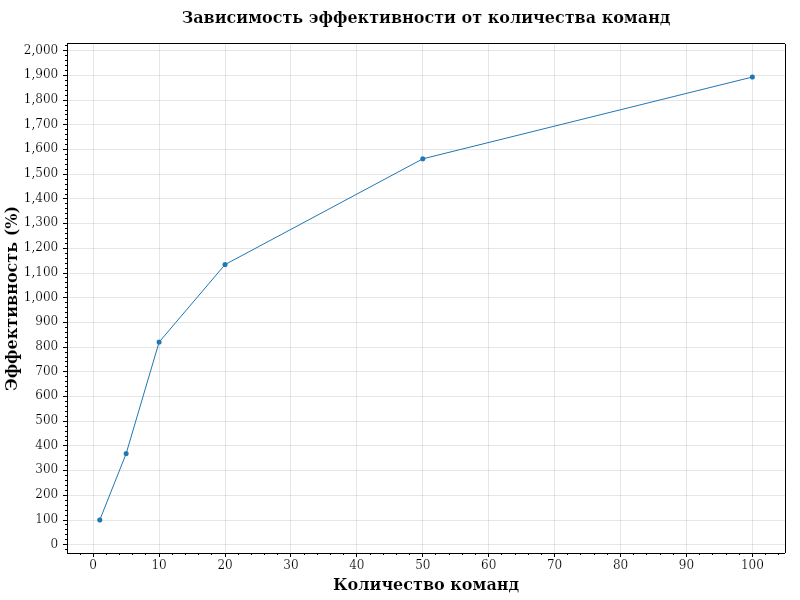
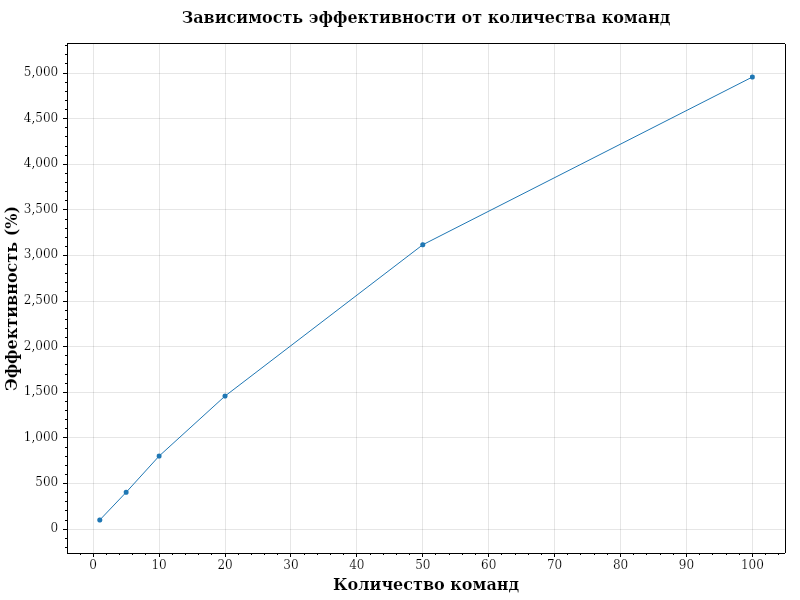
refactor(task18): fixing the Round Robin strategy

diff --git a/task17tests/ServerThreadTests.cs b/task17tests/ServerThreadTests.cs
@@ -6,6 +6,7 @@ namespace task17tests
     public class TestCommand: ICommand
     {
         public bool Executed = false;
+        public bool IsComplete => true;
         public void Execute()
         {
             Executed = true;
@@ -13,33 +14,25 @@ namespace task17tests
     }
     public class FailCommand : ICommand
     {
+
+        public bool IsComplete => true;
         public void Execute()
         {
             throw new Exception("Команда сломана!");
         }
     }
-    public class LongCommand: ICommand
+    public class LongCommand : ICommand
     {
-        private readonly ServerThread Server;
         private readonly int Steps;
         public int Step = 0;
-        public bool Finished = false;
-        public LongCommand(ServerThread server, int steps)
+        public LongCommand(int steps)
         {
-            Server = server;
             Steps = steps;
         }
+        public bool IsComplete => Step >= Steps;
         public void Execute()
         {
             Step++;
-            if (Step >= Steps)
-            {
-                Finished = true;
-            }
-            else
-            {
-                Server.QueueCommand(this);
-            }
         }
     }
     public class ServerThreadTests
@@ -117,59 +110,26 @@ namespace task17tests
         public void LongCommand_CompletesAllSteps()
         {
             var server = new ServerThread();
-            var command = new LongCommand(server, 10);
+            var command = new LongCommand(10);
             server.QueueCommand(command);
             server.QueueCommand(new SoftStopCommand(server));
             server.Start();
             server.Thread.Join(5000);
-            Assert.True(command.Finished);
+            Assert.True(command.IsComplete);
             Assert.Equal(10, command.Step);
-        }
-
-        [Fact]
-        public void TwoLongCommands_Completes()
-        {
-            var server = new ServerThread();
-            var FirstCommand = new LongCommand(server, 5);
-            var SecondCommand = new LongCommand(server, 5);
-            server.QueueCommand(FirstCommand);
-            server.QueueCommand(SecondCommand);
-            server.QueueCommand(new SoftStopCommand(server));
-            server.Start();
-            server.Thread.Join(5000);
-            Assert.True(FirstCommand.Finished);
-            Assert.True(SecondCommand.Finished);
-            Assert.Equal(5, FirstCommand.Step);
-            Assert.Equal(5, SecondCommand.Step);
         }
 
         [Fact]
         public void HardStop_InterruptsLongCommand()
         {
             var server = new ServerThread();
-            var Command = new LongCommand(server, 10);
+            var Command = new LongCommand(10);
             server.QueueCommand(Command);
             server.QueueCommand(new HardStopCommand(server));
             server.Start();
             server.Thread.Join(5000);
-            Assert.False(Command.Finished);
+            Assert.False(Command.IsComplete);
             Assert.True(Command.Step < 10);
-        }
-
-        [Fact]
-        public void CommandsWithLongCommands_Completes()
-        {
-            var server = new ServerThread();
-            var Command = new TestCommand();
-            var longCommand = new LongCommand(server, 5);
-            server.QueueCommand(Command);
-            server.QueueCommand(longCommand);
-            server.QueueCommand(new SoftStopCommand(server));
-            server.Start();
-            server.Thread.Join(5000);
-            Assert.True(Command.Executed);
-            Assert.True(longCommand.Finished);
-            Assert.Equal(5, longCommand.Step);  
         }
 
         [Fact]
@@ -188,7 +148,7 @@ namespace task17tests
                     var server = new ServerThread();
                     for (int j = 0; j < CommandCounts[i]; j++)
                     {
-                        var command = new LongCommand(server, Steps);
+                        var command = new LongCommand(Steps);
                         server.QueueCommand(command);
                     }
                     server.QueueCommand(new SoftStopCommand(server));

diff --git a/task17/Scheduler.cs b/task17/Scheduler.cs
@@ -27,12 +27,20 @@ namespace task17
                 index = 0;
             }
             var command = commands[index];
-            commands.RemoveAt(index);
-            if (commands.Count > 0 && index >= commands.Count)
-            {
-                index = 0;
-            }
+            index++;
             return command;
+        }
+        public void Remove(ICommand cmd)
+        {
+           int position = commands.IndexOf(cmd);
+            if (position >= 0)
+            {
+                commands.RemoveAt(position);
+                if (position < index)
+                {
+                    index--;
+                }
+            } 
         }
     }
 }

diff --git a/task17/ServerThread.cs b/task17/ServerThread.cs
@@ -58,6 +58,10 @@ namespace task17
                             ExceptionHandler(command, exception);
                         }
                     }
+                    if (command.IsComplete)
+                    {
+                        scheduler.Remove(command);
+                    }
                 }
                 else
                 {

diff --git a/task17/HardStopCommand.cs b/task17/HardStopCommand.cs
@@ -7,6 +7,7 @@ namespace task17
         {
             _server = server;
         }
+        public bool IsComplete => true;
         public void Execute()
         {
             if (Thread.CurrentThread != _server.Thread)

diff --git a/task17/SoftStopCommand.cs b/task17/SoftStopCommand.cs
@@ -7,6 +7,7 @@ namespace task17
         {
             _server = server;
         }
+        public bool IsComplete => true;
         public void Execute()
         {
             if (Thread.CurrentThread != _server.Thread)

diff --git a/task17/IScheduler.cs b/task17/IScheduler.cs
@@ -5,6 +5,7 @@ namespace task17
         bool HasCommand();
         ICommand Select();
         void Add(ICommand cmd);
+        void Remove(ICommand cmd);
     }
 }
 

diff --git a/task17/ICommand.cs b/task17/ICommand.cs
@@ -3,6 +3,7 @@ namespace task17
     public interface ICommand
     {
         void Execute();
+        bool IsComplete { get; }
     }
 }
 

diff --git a/task17/report.md b/task17/report.md
@@ -4,10 +4,10 @@
 
 ## 1. Реализованные компоненты
 
-    IScheduler - интерфейс планировщика с методами HasCommand(), Select(), Add().
-    Scheduler - реализация с циклической стратегией Round Robin.
+    ICommand - добавлено свойство IsComplete для индикации завершения команды.
+    IScheduler - интерфейс планировщика с методами HasCommand(), Select(), Add(), Remove().
+    Scheduler - реализация с циклической стратегией Round Robin: команды остаются в планировщике, index двигается по кругу, удаление при IsComplete.
     ServerThread - команды из очереди перекладываются в планировщик, выполнение через Select().
-    LongCommand - длительная команда, выполняемая за несколько вызовов Execute().
     
 ## 2. Оптимизация ожидания и синхронизация потока
 
@@ -18,13 +18,14 @@
 Замеры проводились 1000 раз для каждого варианта, чтобы получить средний результат.
 Каждая команда выполняет 50 шагов.
 
-    Команд: 1, Среднее время: 0.27 миллисекунд, Эффективность: 100.0%
-    Команд: 5, Среднее время: 0.37 миллисекунд, Эффективность: 368.7%
-    Команд: 10, Среднее время: 0.33 миллисекунд, Эффективность: 820.3%
-    Команд: 20, Среднее время: 0.48 миллисекунд, Эффективность: 1134.1%
-    Команд: 50, Среднее время: 0.87 миллисекунд, Эффективность: 1562.3%
-    Команд: 100, Среднее время: 1.43 миллисекунд, Эффективность: 1893.7%
+    Команд: 1, Среднее время: 0.36 миллисекунд, Эффективность: 100.0%
+    Команд: 5, Среднее время: 0.45 миллисекунд, Эффективность: 403.8%
+    Команд: 10, Среднее время: 0.45 миллисекунд, Эффективность: 800.8%
+    Команд: 20, Среднее время: 0.49 миллисекунд, Эффективность: 1458.7%
+    Команд: 50, Среднее время: 0.58 миллисекунд, Эффективность: 3117.7%
+    Команд: 100, Среднее время: 0.73 миллисекунд, Эффективность: 4956.7%
 
 Это показывает, что планировщик эффективно распределяет время между командами, и увеличение их количества не приводит к значительному росту времени выполнения.
 
 График: chart_task18.png
+
